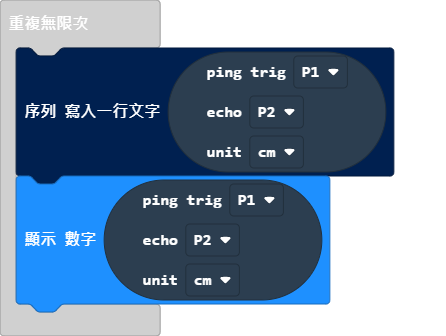
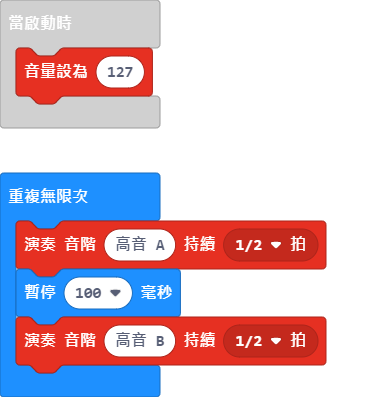
更新 main.blocks, main.ts

diff --git a/main.ts b/main.ts
@@ -1,3 +1,4 @@
+music.setVolume(127)
 basic.forever(function () {
     serial.writeLine("" + (sonar.ping(
     DigitalPin.P1,
@@ -9,4 +10,9 @@ basic.forever(function () {
     DigitalPin.P2,
     PingUnit.Centimeters
     ))
+})
+basic.forever(function () {
+    music.playTone(880, music.beat(BeatFraction.Half))
+    basic.pause(100)
+    music.playTone(988, music.beat(BeatFraction.Half))
 })
